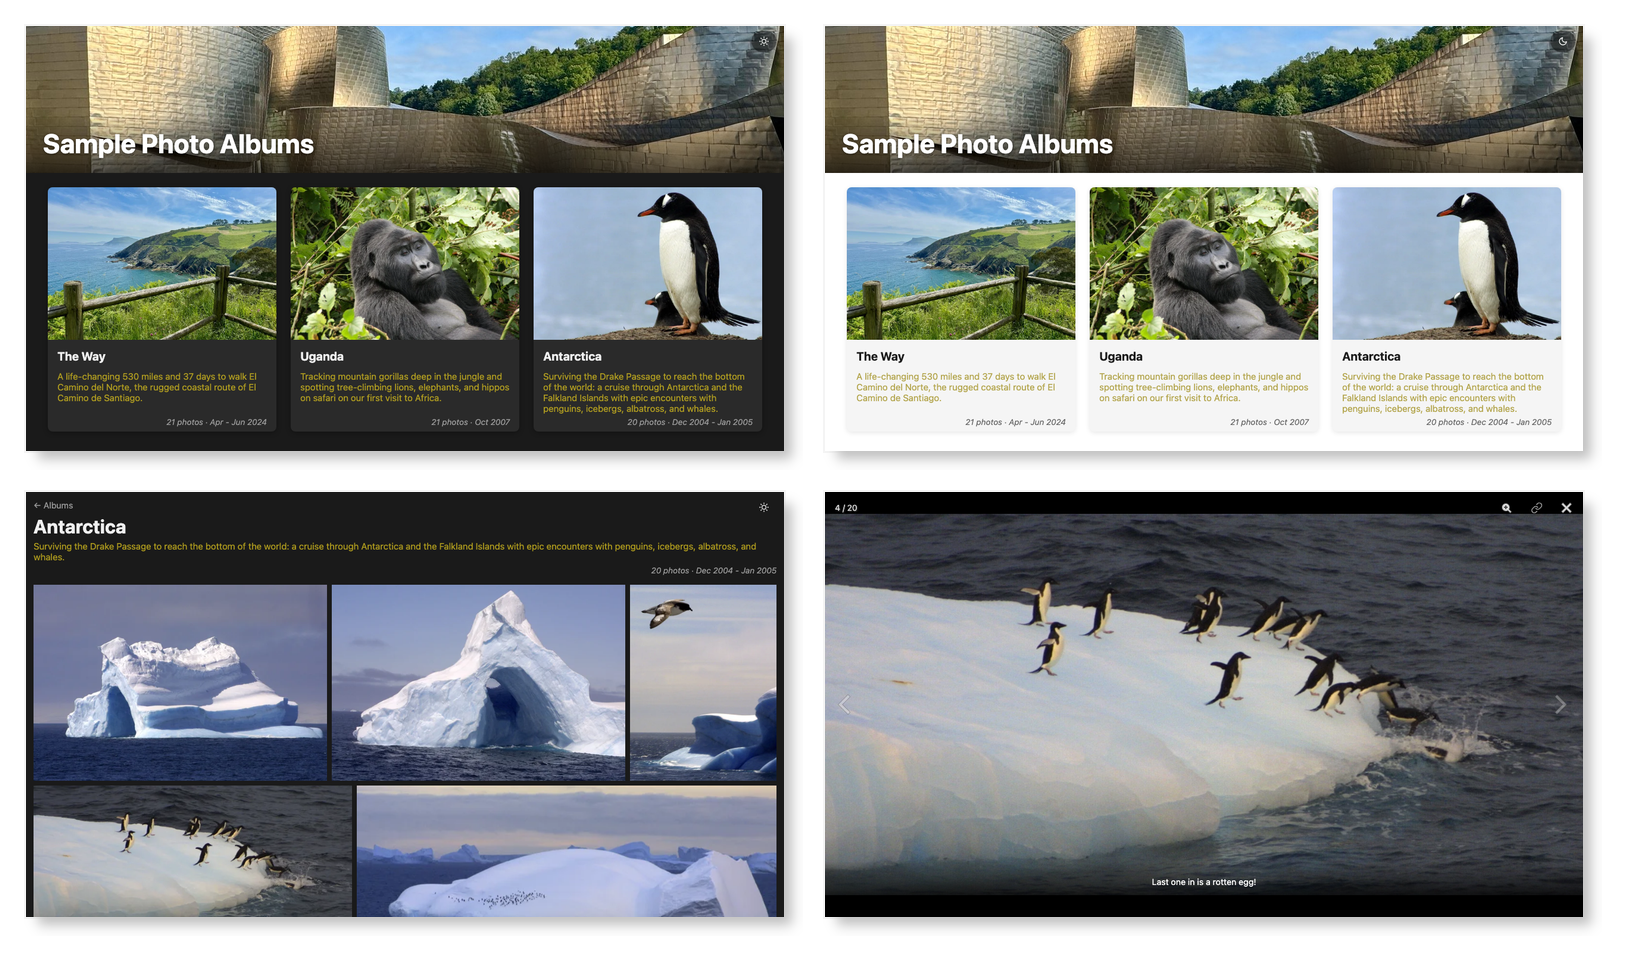
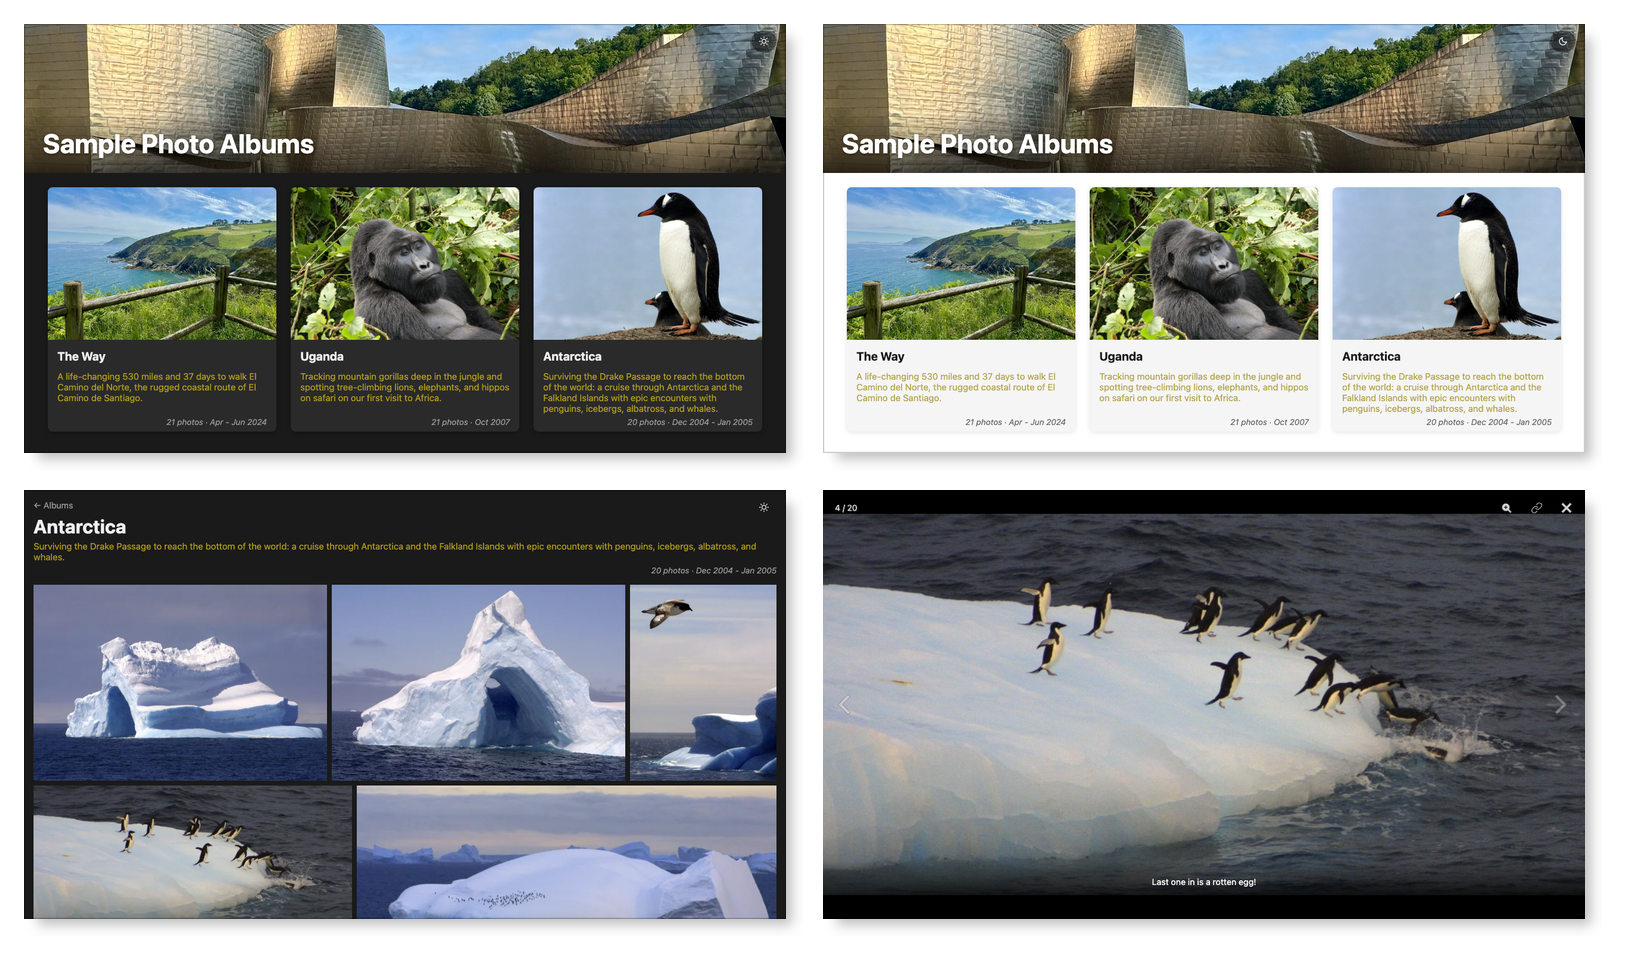
Add stroke to screenshots

diff --git a/bin/generate-screenshot-composite.py b/bin/generate-screenshot-composite.py
@@ -30,7 +30,7 @@ SHADOW_OPACITY = 0.5       # 0–1
 SHADOW_COLOR   = (0, 0, 0)
 
 # Inner stroke — Photoshop: 2px inside, black, opacity=20%
-STROKE_WIDTH   = 2
+STROKE_WIDTH   = 0  # screenshots already have a stroke baked in by screenshots.mjs
 STROKE_OPACITY = 0.20
 STROKE_COLOR   = (0, 0, 0)
 
